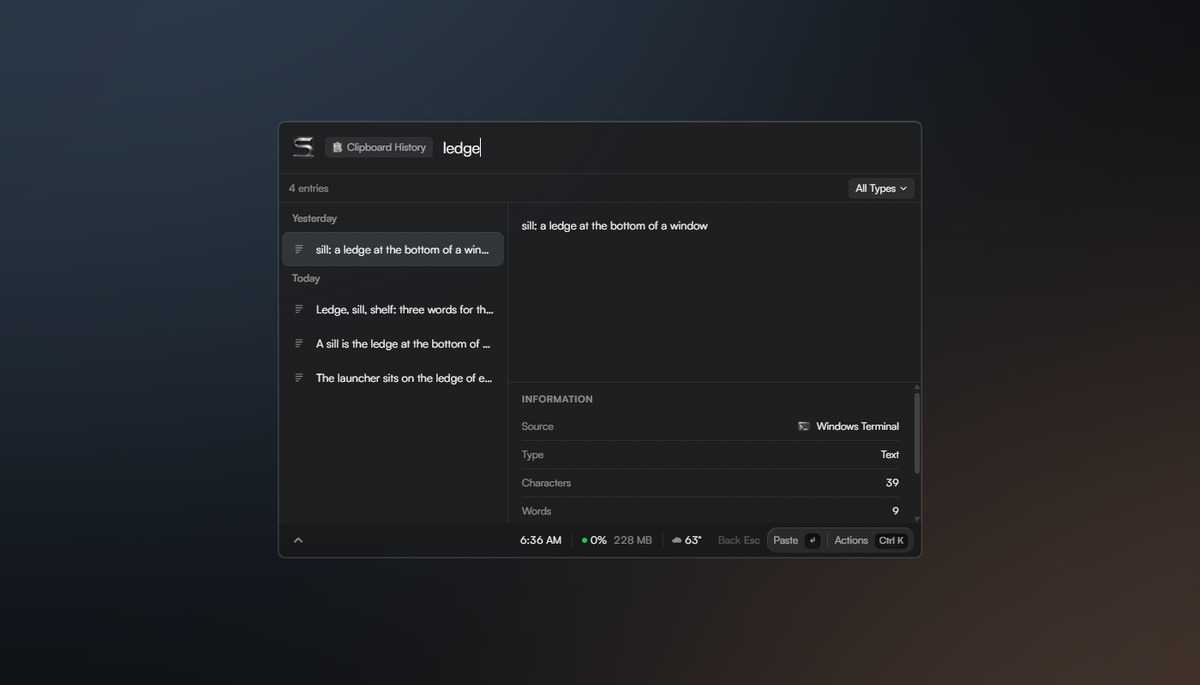
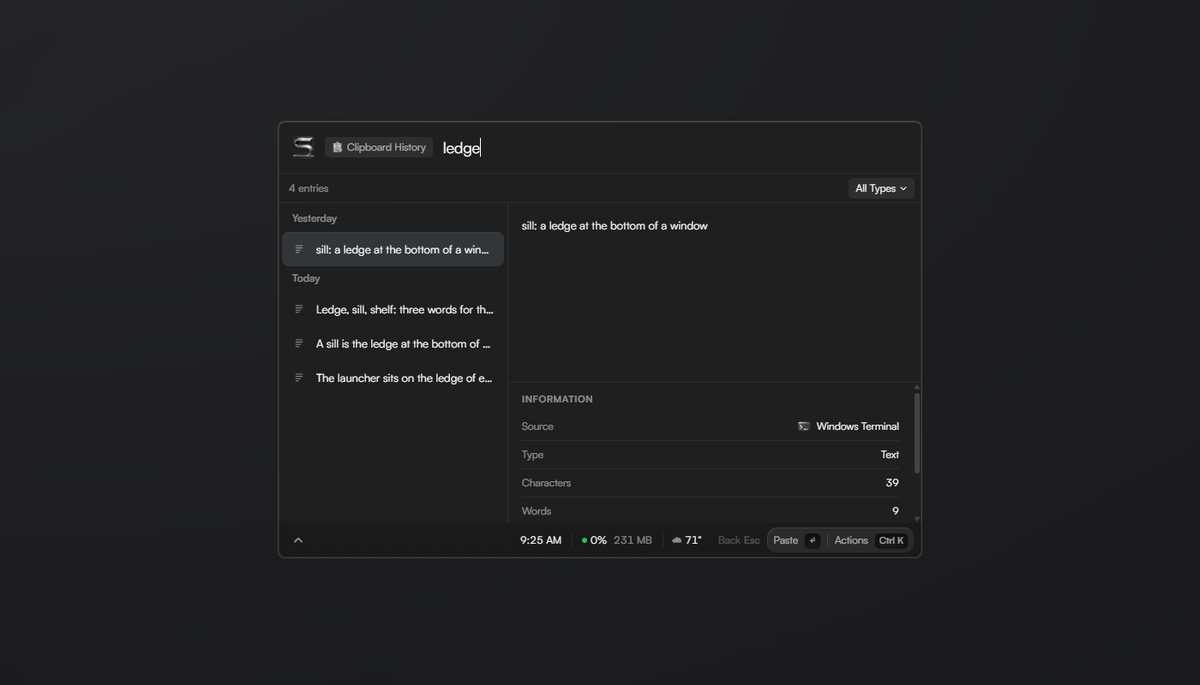
Two grounds for the two surfaces, and a row of claims on the card
`PALETTES` in the compose script holds both. The screenshots sit on graphite,
which carries no hue at all, so the only colour in a frame is the program's own.
The social card sits on Oilslick, copied stop for stop out of `theme.css`.

Those alphas are set for a 750px window. Across a full canvas they land below
what an 8-bit channel can resolve, so `SLICK_STRENGTH` scales them; the
hierarchy the theme describes, one dominant hue with the rest subordinate,
holds at any scale because every stop is scaled together.

Both palettes render through one path: `Image.radial_gradient` stretched to
each ellipse's bounding box gives the normalised elliptical radius a CSS
gradient measures its stops along, and a 256-entry table per channel maps that
radius to colour and alpha.

Under the card's sentence is a row of three pills. They are drawn on their own
RGBA layer and composited, because `ImageDraw` on an RGB canvas discards the
alpha of a translucent fill. The letters "AI" are filled with a warm-to-cool
wash through a text mask rather than a flat colour, with a four-pointed glint
either side.

Changed region(s): [[0.0, 0.0, 0.4933, 0.3372], [0.7092, 0.6745, 1.0, 1.0], [0.4317, 0.7664, 0.4625, 0.7971]]

diff --git a/scripts/shoot-compose.py b/scripts/shoot-compose.py
@@ -10,6 +10,7 @@ each window with the backdrop around it. It scales the feature pictures to one
 width, cuts the logo out of the icon master, and lays out the social preview.
 """
 
+import math
 import sys
 from pathlib import Path
 
@@ -27,37 +28,94 @@ FEATURE_WIDTH = 1200
 HERO_WIDTH = 1400
 
 
-def backdrop(size=SCREEN) -> Image.Image:
+# Two grounds, because the two surfaces are doing different jobs.
+#
+# The screenshots want the launcher to be the only thing with colour in the
+# frame, so they sit on a neutral. The social card is the one place the project
+# gets to look like itself, so it wears the Oilslick theme's own wash.
+#
+# Both are written as a base colour plus elliptical gradients carrying their
+# colour stops and alphas, which is the shape `theme.css` states Oilslick in.
+PALETTES = {
+    # No hue anywhere. Black through charcoal, lit from the upper left.
+    "graphite": ((9, 9, 10), [
+        (1.05, 1.00, 0.22, 0.16, [(0.00, (58, 59, 63), 0.62), (1.00, None, 0.0)]),
+        (0.95, 0.90, 0.82, 0.86, [(0.00, (30, 30, 33), 0.55), (1.00, None, 0.0)]),
+    ], 1.0),
+    # Oilslick, copied from `theme.css`. One hue dominates and the rest stay
+    # subordinate, which is what reads as a sheen rather than three blobs.
+    # The theme's alphas are set for a 750px window; across a whole canvas they
+    # fall below what an 8-bit channel can show, so they are scaled.
+    "oilslick": ((0x0B, 0x0A, 0x0E), [
+        (0.96, 0.93, 0.28, 0.20, [(0.00, (0, 29, 35), 0.11), (0.42, (37, 24, 0), 0.09), (1.00, None, 0.0)]),
+        (1.00, 0.96, 0.76, 0.62, [(0.00, (55, 0, 47), 0.11), (0.38, (0, 30, 20), 0.09),
+                                  (0.72, (45, 19, 0), 0.07), (1.00, None, 0.0)]),
+        (0.80, 0.70, 0.50, 0.30, [(0.00, (48, 30, 120), 0.165), (0.42, (42, 27, 102), 0.09), (1.00, None, 0.0)]),
+    ], 3.0),
+}
+
+
+def _ramp(size, rx, ry, cx, cy) -> Image.Image:
+    """Distance from a gradient's centre, 0 at the centre and 255 at its edge.
+
+    `Image.radial_gradient` is a 256 square reaching 255 at the inscribed
+    circle. Stretched to the ellipse's bounding box and pasted at its centre,
+    it is the normalised elliptical radius a CSS gradient measures its stops
+    along. Everything outside stays at 255, past the last stop and therefore
+    fully transparent.
+    """
     w, h = size
-    canvas = Image.new("RGB", size, (11, 13, 16))
+    box = (max(int(2 * rx * w), 1), max(int(2 * ry * h), 1))
+    out = Image.new("L", size, 255)
+    out.paste(Image.radial_gradient("L").resize(box, Image.BILINEAR),
+              (int(cx * w) - box[0] // 2, int(cy * h) - box[1] // 2))
+    return out
 
-    # Washes are drawn small and scaled up after blurring: blurring a
-    # full-size layer with a radius this large is slow for no visible gain.
+
+def _lut(stops, channel, strength):
+    """A 256-entry table mapping the ramp to one colour channel, or to alpha."""
+    table = []
+    for i in range(256):
+        t = i / 255
+        value = 0.0
+        for (o0, c0, a0), (o1, c1, a1) in zip(stops, stops[1:]):
+            if not (o0 <= t <= o1):
+                continue
+            f = (t - o0) / max(o1 - o0, 1e-6)
+            if channel == "a":
+                value = (a0 * (1 - f) + a1 * f) * strength * 255
+            else:
+                v0 = c0[channel] if c0 else 0
+                v1 = c1[channel] if c1 else v0
+                value = v0 * (1 - f) + v1 * f
+            break
+        table.append(int(max(0, min(255, round(value)))))
+    return table
+
+
+def backdrop(size=SCREEN, palette="graphite") -> Image.Image:
+    """The desktop the shoot runs over, and the ground the social card sits on.
+
+    The launcher is transparent, so whatever is behind it is blurred through the
+    glass and becomes part of every screenshot. That is why the shoot gets the
+    neutral: the only colour in the frame should be the program's.
+    """
+    base, gradients, strength = PALETTES[palette]
+    canvas = Image.new("RGB", size, base)
+
+    for rx, ry, cx, cy, stops in gradients:
+        t = _ramp(size, rx, ry, cx, cy)
+        colour = Image.merge("RGB", tuple(t.point(_lut(stops, c, strength)) for c in (0, 1, 2)))
+        canvas.paste(colour, (0, 0), t.point(_lut(stops, "a", strength)))
+
+    w, h = size
     scale = 8
-    small = Image.new("RGB", (w // scale, h // scale), (11, 13, 16))
-    draw = ImageDraw.Draw(small)
-    # Cool wash, upper left. Warm wash, lower right. Both far from saturated.
-    draw.ellipse(
-        [w * -0.15 // scale, h * -0.35 // scale, w * 0.62 // scale, h * 0.55 // scale],
-        fill=(44, 58, 74),
-    )
-    draw.ellipse(
-        [w * 0.50 // scale, h * 0.45 // scale, w * 1.25 // scale, h * 1.35 // scale],
-        fill=(70, 54, 46),
-    )
-    small = small.filter(ImageFilter.GaussianBlur(radius=34))
-    washes = small.resize(size, Image.LANCZOS)
-    canvas = Image.blend(canvas, washes, 1.0)
-
-    # A faint vignette so the edges fall away rather than stop.
     vignette = Image.new("L", (w // scale, h // scale), 0)
     ImageDraw.Draw(vignette).ellipse(
-        [w * -0.1 // scale, h * -0.2 // scale, w * 1.1 // scale, h * 1.2 // scale], fill=255
+        [w * -0.10 // scale, h * -0.20 // scale, w * 1.10 // scale, h * 1.20 // scale], fill=255
     )
     vignette = vignette.filter(ImageFilter.GaussianBlur(radius=40)).resize(size, Image.LANCZOS)
-    dark = Image.new("RGB", size, (6, 7, 9))
-    canvas = Image.composite(canvas, dark, vignette)
-    return canvas
+    return Image.composite(canvas, Image.new("RGB", size, (5, 5, 7)), vignette)
 
 
 def logo() -> Image.Image:
@@ -120,42 +178,131 @@ def font(size: int, weight: str = "semibold") -> ImageFont.FreeTypeFont:
     return ImageFont.load_default(size)
 
 
+# The two ends of the wash behind the letters "AI".
+AI_WARM = (255, 146, 52)
+AI_COOL = (233, 78, 190)
+
+
+def _sparkle(draw: ImageDraw.ImageDraw, cx: float, cy: float, r: float, fill) -> None:
+    """A four-pointed star, drawn concave so it reads as a glint.
+
+    The waist is what makes it a sparkle rather than a diamond: points on the
+    axes at the full radius, and the corners between them pulled most of the
+    way back in.
+    """
+    waist = r * 0.26
+    points = []
+    for i in range(8):
+        reach = r if i % 2 == 0 else waist
+        angle = math.radians(i * 45)
+        points.append((cx + reach * math.sin(angle), cy - reach * math.cos(angle)))
+    draw.polygon(points, fill=fill)
+
+
+def _gradient_text(text: str, font_: ImageFont.FreeTypeFont) -> Image.Image:
+    """The text as an image, its letters filled with the warm-to-cool wash."""
+    box = font_.getbbox(text)
+    w, h = box[2] - box[0], box[3] - box[1]
+    mask = Image.new("L", (w, h), 0)
+    ImageDraw.Draw(mask).text((-box[0], -box[1]), text, font=font_, fill=255)
+
+    wash = Image.new("RGB", (w, h))
+    px = wash.load()
+    for x in range(w):
+        f = x / max(w - 1, 1)
+        px[x, 0] = tuple(int(AI_WARM[i] * (1 - f) + AI_COOL[i] * f) for i in range(3))
+    wash.paste(wash.crop((0, 0, w, 1)).resize((w, h), Image.NEAREST), (0, 0))
+
+    out = Image.new("RGBA", (w, h), (0, 0, 0, 0))
+    out.paste(wash, (0, 0), mask)
+    return out
+
+
 def social(mark: Image.Image) -> Image.Image:
-    """The card link previews show: the logo, the name, and the sentence.
+    """The card link previews show.
 
-    No screenshot. A launcher window shrunk to fit beside the words is
-    illegible at the size these are actually seen at, and it makes the card
-    about a picture nobody can read rather than about what the thing does.
+    No screenshot: a launcher window shrunk to fit beside the words is
+    illegible at the size these are actually seen at.
 
-    Laid out by measuring rather than by hardcoding a first line: the gaps are
-    optical, so they are set between the drawn edges of the type, and the whole
-    block is centred on what it actually measures.
+    Laid out by measuring rather than by hardcoding a first line, so the gaps
+    are optical and the block is centred on what it measures.
     """
     w, h = 1280, 640
-    card = backdrop((w, h))
+    card = backdrop((w, h), "oilslick")
     draw = ImageDraw.Draw(card)
 
-    side = 128
-    lines = [
-        ("Sill", wordmark(78), (238, 240, 243), 42),
-        ("Your Windows toolbox, summoned with a keystroke.", font(32, "regular"), (186, 192, 200), 24),
-        ("Open source. Search anything on your machine, then act on it.", font(22, "regular"), (128, 136, 146), 0),
-    ]
+    headline = ("Your Windows toolbox, summoned with a keystroke.", font(34, "regular"), (222, 226, 232))
+    chip_font = font(21, "regular")
 
-    # Ink heights, so a line with no descender does not leave a bigger gap
-    # under it than one that has.
-    measured = [(t, f, c, gap, draw.textbbox((0, 0), t, font=f)) for t, f, c, gap in lines]
-    text_block = sum((box[3] - box[1]) + gap for _, _, _, gap, box in measured)
-    total = side + 34 + text_block
+    name = wordmark(76)
+    hbox = draw.textbbox((0, 0), headline[0], font=headline[1])
+    nbox = draw.textbbox((0, 0), "Sill", font=name)
+    chip_h = 46
+    side = 122
+    block = (side + 36 + (nbox[3] - nbox[1]) + 26
+             + (hbox[3] - hbox[1]) + 46 + chip_h)
 
-    y = (h - total) // 2
+    y = (h - block) // 2
     small = mark.resize((side, side), Image.LANCZOS)
     card.paste(small, ((w - side) // 2, y), small)
-    y += side + 34
+    y += side + 36
 
-    for text, font_, fill, gap, box in measured:
-        draw.text(((w - (box[2] - box[0])) / 2 - box[0], y - box[1]), text, font=font_, fill=fill)
-        y += (box[3] - box[1]) + gap
+    draw.text(((w - (nbox[2] - nbox[0])) / 2 - nbox[0], y - nbox[1] - 4), "Sill", font=name, fill=(240, 242, 245))
+    y += (nbox[3] - nbox[1]) + 26
+
+    draw.text(((w - (hbox[2] - hbox[0])) / 2 - hbox[0], y - hbox[1]), headline[0], font=headline[1], fill=headline[2])
+    y += (hbox[3] - hbox[1]) + 46
+
+    # The row underneath: three claims, the middle one carrying the wash and
+    # its glints. Drawn on its own layer, because a chip is a translucent fill
+    # and `ImageDraw` on an RGB canvas throws the alpha away.
+    chip_font = font(22, "regular")
+    ai_font = font(26)
+    chips = [("Built in Rust", None), ("AI", "on your machine"), ("Open source", None)]
+    pad_x, gap, chip_h = 22, 16, 46
+
+    def widths_of():
+        out = []
+        for lead, tail in chips:
+            if tail is None:
+                out.append(int(draw.textlength(lead, font=chip_font)) + pad_x * 2)
+            else:
+                out.append(int(22 + draw.textlength(lead, font=ai_font) + 18
+                               + draw.textlength(tail, font=chip_font)) + pad_x * 2)
+        return out
+
+    widths = widths_of()
+    row_w = sum(widths) + gap * (len(chips) - 1)
+    x0 = (w - row_w) // 2
+
+    shells = Image.new("RGBA", (w, h), (0, 0, 0, 0))
+    sd = ImageDraw.Draw(shells)
+    x = x0
+    for cw in widths:
+        sd.rounded_rectangle([x, y, x + cw, y + chip_h], radius=chip_h // 2,
+                             fill=(255, 255, 255, 12), outline=(255, 255, 255, 34), width=1)
+        x += cw + gap
+    card = Image.alpha_composite(card.convert("RGBA"), shells).convert("RGB")
+    draw = ImageDraw.Draw(card)
+
+    def baseline(f):
+        box = f.getbbox("Hg")
+        return y + (chip_h - (box[3] - box[1])) // 2 - box[1]
+
+    x = x0
+    for (lead, tail), cw in zip(chips, widths):
+        tx = x + pad_x
+        if tail is None:
+            draw.text((tx, baseline(chip_font)), lead, font=chip_font, fill=(176, 182, 192))
+        else:
+            _sparkle(draw, tx + 6, y + chip_h / 2 + 1, 8.5, AI_WARM)
+            tx += 22
+            letters = _gradient_text(lead, ai_font)
+            card.paste(letters, (int(tx), int(y + (chip_h - letters.height) // 2)), letters)
+            _sparkle(draw, tx + letters.width + 6, y + chip_h / 2 - 12, 5.5, AI_COOL)
+            tx += letters.width + 18
+            draw.text((tx, baseline(chip_font)), tail, font=chip_font, fill=(176, 182, 192))
+        x += cw + gap
 
     return card
 

diff --git a/CLAUDE.md b/CLAUDE.md
@@ -84,6 +84,26 @@ is for selection, matches, focus and affirmative state, nothing else.
 Restraint is the house style: no glows, 1px separators, no bordered chip
 buttons, no toast spam, and do not surface internal machinery as UI.
 
+## Writing a commit message
+
+State what is true after the change, plus any fact somebody editing this later
+has to know. Do not argue the case for the change.
+
+A message that explains why the previous state was wrong is writing down one
+side of a discussion the reader was not in. It is longest and least useful
+exactly where the change came from taste rather than from a defect, because
+then there is no defect to describe and the "why" can only be a paraphrase of
+somebody's preference.
+
+The test: **would this sentence exist if the code had been written this way on
+day one?** An explanation of how a font is converted survives it, because it
+describes a mechanism. "The old wording was vague" does not, because there was
+no old wording.
+
+The diff already records what changed. The message is for what the diff cannot
+show: a constraint, a trap, a reason one of two obvious approaches was not
+taken.
+
 ## Scope
 
 Do the work asked. When you notice something else worth fixing, say so
